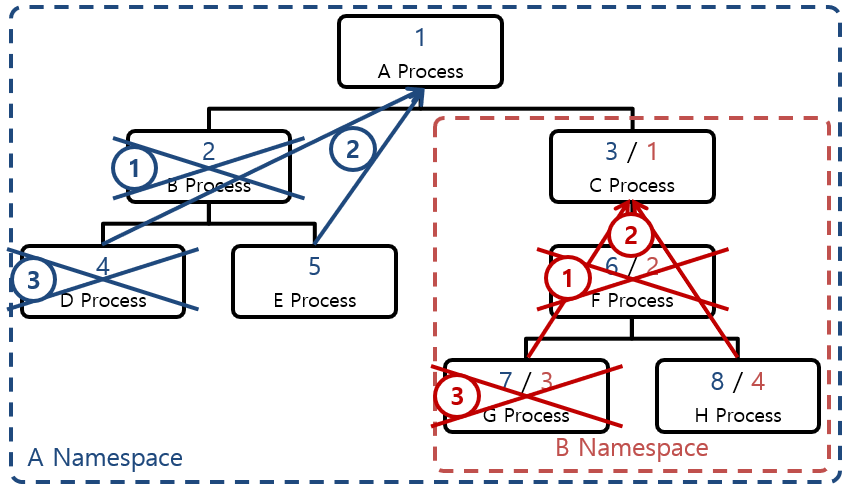
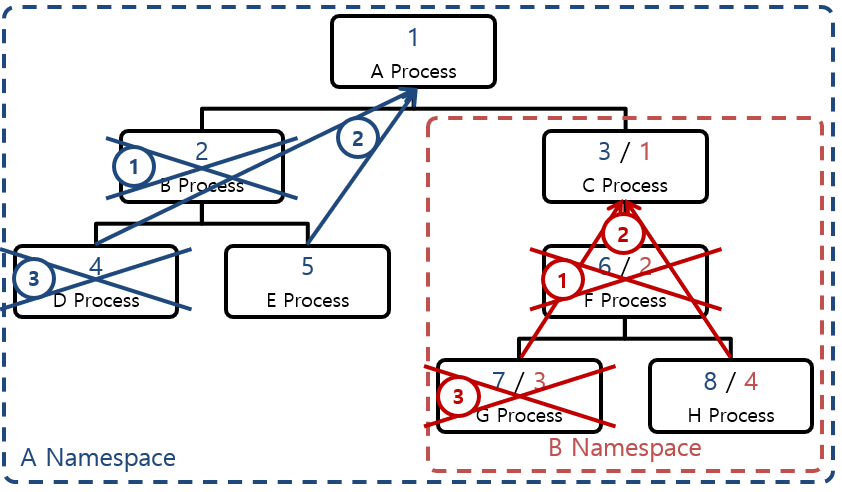
Update

diff --git a/_docs/onebyone_container/3.1.PID_Namespace.md b/_docs/onebyone_container/3.1.PID_Namespace.md
@@ -58,4 +58,4 @@ PID Namespace는 의미 그대로 PID를 Isolation하는 역활을 수행하는 
 
 일반적으로 각 Container는 자신만의 PID Namespace안에서 동작한다. Host의 Process 또한 Init PID Namespace에서 동작한다. 따라서 A Namespace를 Host PID Namespace로, B Namespace를 NGINX PID Namespace로, C Namespace를 httpd PID Namespace로 Mapping 한다면 각 Container에서 보이는 Process들의 현상을 이해할 수 있게 된다.
 
-![[그림 2] Orphan, Zombie Process]({{site.baseurl}}/images/onebyone_container/PID_Namespace/Orphan_Zombie_Process.PNG){: width="700px"}
+![[그림 2] Orphan, Zombie Process]({{site.baseurl}}/images/onebyone_container/PID_Namespace/Orphan_Zombie_Process.PNG){: width="600px"}
